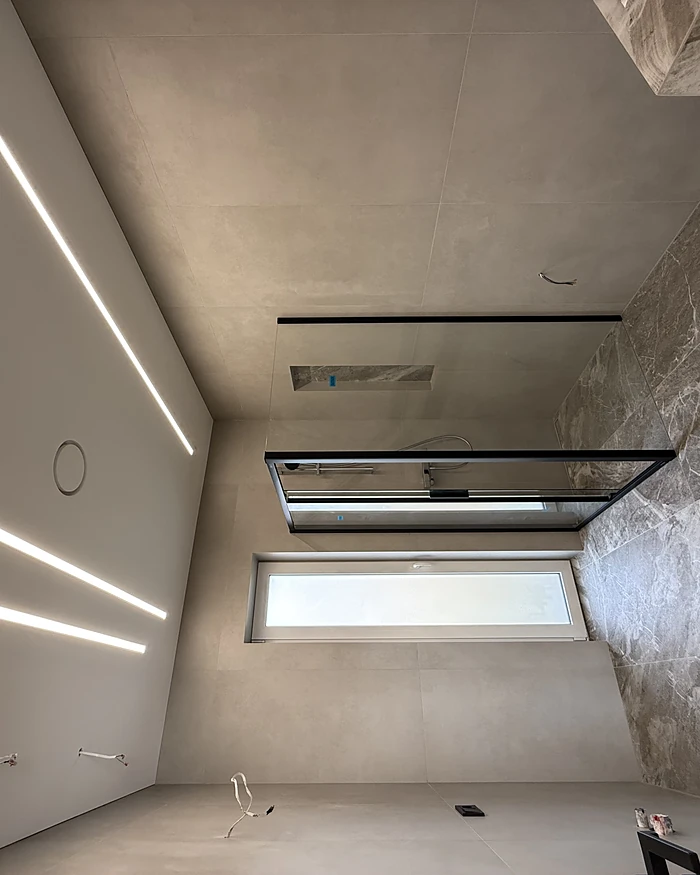
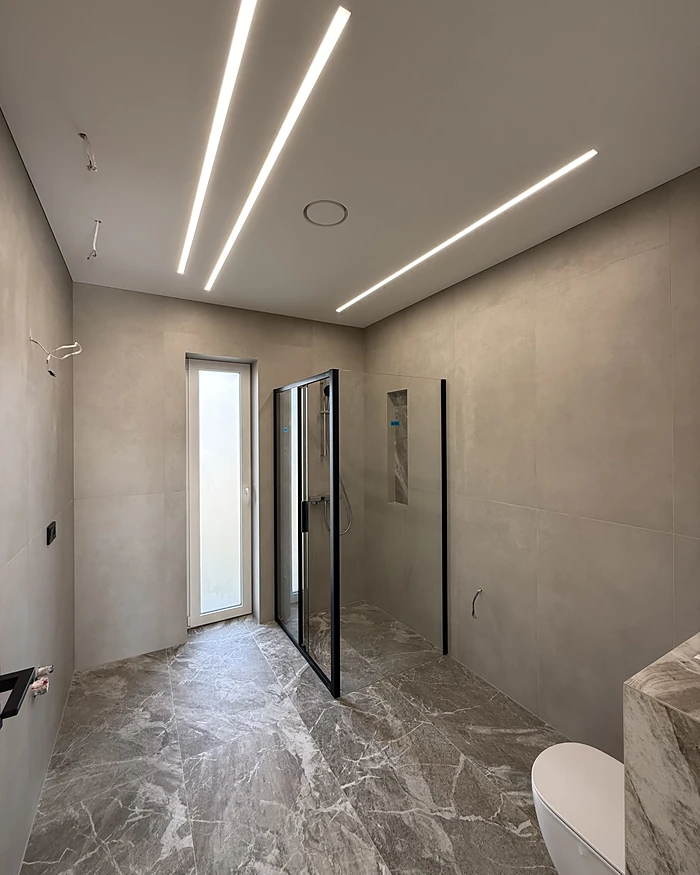
Ištaisyta šonu gulėjusi vonios kambario nuotrauka
IMG_0545 turi EXIF orientation=6, o PIL jo automatiškai netaiko, tad kadras
buvo iškirptas pasuktas 90 laipsnių. Perkirpta su ImageOps.exif_transpose,
atnaujintas ir alt tekstas: tai vonios kambarys su dušo kabina, o ne lubos.

diff --git a/index.html b/index.html
@@ -141,7 +141,7 @@
             <img class="ar45" src="img/w2-b-900.webp" srcset="img/w2-b-700.webp 700w, img/w2-b-900.webp 900w" sizes="(min-width:900px) 30vw, 78vw" width="900" height="1125" loading="lazy" decoding="async" alt="Vonios kambarys su marmuro imitacijos plytelėmis ir laisvai stovinčia vonia">
           </div>
           <div data-reveal data-delay="140" class="ph case__t3">
-            <img class="ar45" src="img/w2-c-900.webp" srcset="img/w2-c-700.webp 700w, img/w2-c-900.webp 900w" sizes="(min-width:900px) 24vw, 78vw" width="900" height="1125" loading="lazy" decoding="async" alt="Lubos su linijiniais šviestuvais ir akmens plokštės sienos apdaila">
+            <img class="ar45" src="img/w2-c-900.webp" srcset="img/w2-c-700.webp 700w, img/w2-c-900.webp 900w" sizes="(min-width:900px) 24vw, 78vw" width="900" height="1125" loading="lazy" decoding="async" alt="Vonios kambarys su stiklo dušo kabina, marmuro grindimis ir linijiniais lubų šviestuvais">
           </div>
         </div>
       </article>

diff --git a/paslaugos/vidaus-apdaila/index.html b/paslaugos/vidaus-apdaila/index.html
@@ -112,7 +112,7 @@
           <img src="/img/w2-b-900.webp" sizes="(min-width:760px) 31vw, 100vw" loading="lazy" decoding="async" alt="Vonios kambarys su marmuro imitacijos plytelėmis ir laisvai stovinčia vonia">
         </div>
         <div class="ph ar45" data-reveal data-delay="140">
-          <img src="/img/w2-c-900.webp" sizes="(min-width:760px) 31vw, 100vw" loading="lazy" decoding="async" alt="Lubos su linijiniais šviestuvais ir akmens plokštės sienos apdaila">
+          <img src="/img/w2-c-900.webp" sizes="(min-width:760px) 31vw, 100vw" loading="lazy" decoding="async" alt="Vonios kambarys su stiklo dušo kabina, marmuro grindimis ir linijiniais lubų šviestuvais">
         </div>
       </div>
     </div>

diff --git a/paslaugos/renovacija-ir-statyba/index.html b/paslaugos/renovacija-ir-statyba/index.html
@@ -112,7 +112,7 @@
           <img src="/img/w3-b-1000.webp" sizes="(min-width:760px) 31vw, 100vw" loading="lazy" decoding="async" alt="Erdvi patalpa su mediniais laiptais ir naujomis grindimis">
         </div>
         <div class="ph ar45" data-reveal data-delay="140">
-          <img src="/img/w2-c-900.webp" sizes="(min-width:760px) 31vw, 100vw" loading="lazy" decoding="async" alt="Lubos su linijiniais šviestuvais ir akmens plokštės sienos apdaila">
+          <img src="/img/w2-c-900.webp" sizes="(min-width:760px) 31vw, 100vw" loading="lazy" decoding="async" alt="Vonios kambarys su stiklo dušo kabina, marmuro grindimis ir linijiniais lubų šviestuvais">
         </div>
       </div>
     </div>

diff --git a/gen.py b/gen.py
@@ -32,7 +32,7 @@ SERVICES = [
         "gal": [
             ("w2-a-900.webp", "Svetainė su medinių lentelių siena ir koridorius po vidaus apdailos darbų"),
             ("w2-b-900.webp", "Vonios kambarys su marmuro imitacijos plytelėmis ir laisvai stovinčia vonia"),
-            ("w2-c-900.webp", "Lubos su linijiniais šviestuvais ir akmens plokštės sienos apdaila"),
+            ("w2-c-900.webp", "Vonios kambarys su stiklo dušo kabina, marmuro grindimis ir linijiniais lubų šviestuvais"),
         ],
     },
     {
@@ -120,7 +120,7 @@ SERVICES = [
         "gal": [
             ("proc-1400.webp", "Medinės stogo konstrukcijos montavimas ant mūrinių sienų"),
             ("w3-b-1000.webp", "Erdvi patalpa su mediniais laiptais ir naujomis grindimis"),
-            ("w2-c-900.webp", "Lubos su linijiniais šviestuvais ir akmens plokštės sienos apdaila"),
+            ("w2-c-900.webp", "Vonios kambarys su stiklo dušo kabina, marmuro grindimis ir linijiniais lubų šviestuvais"),
         ],
     },
 ]
